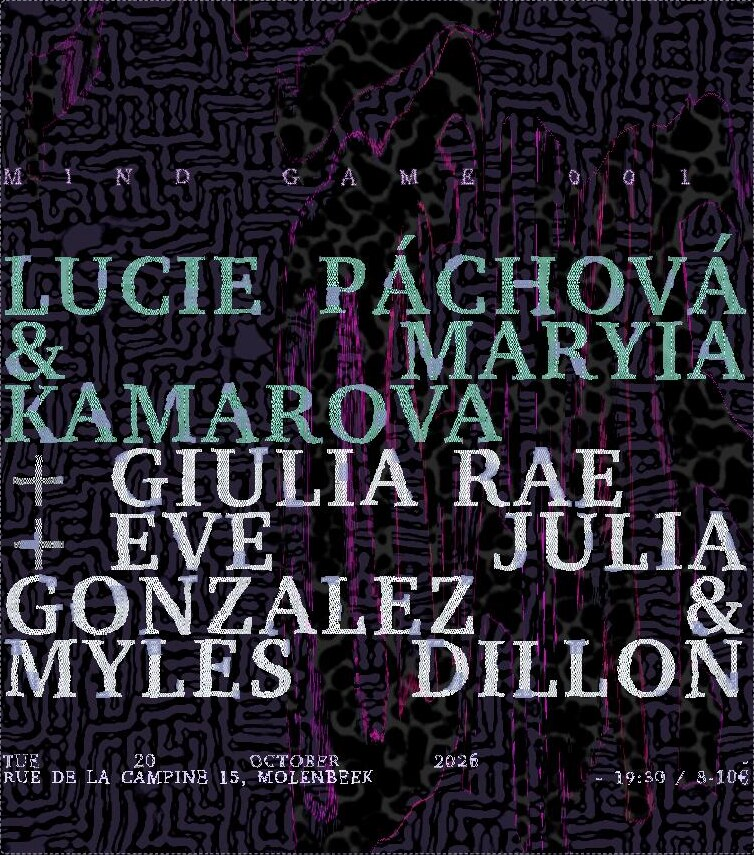
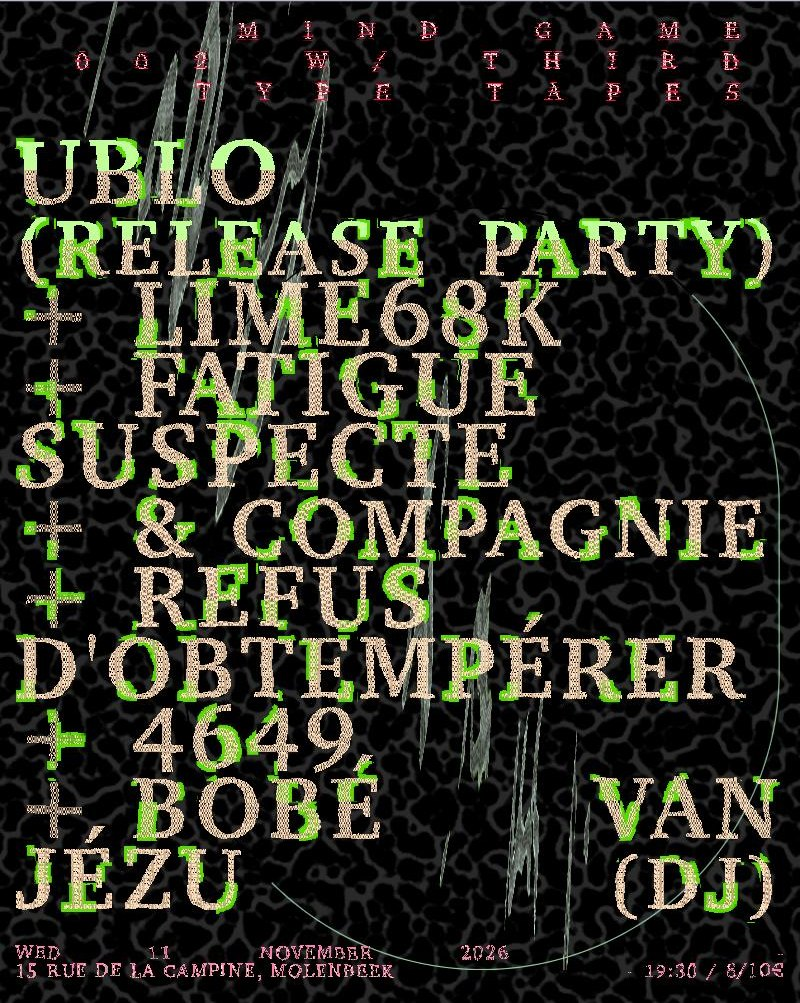
L'aperçu montre l'affiche du 11 novembre

diff --git a/index.html b/index.html
@@ -28,8 +28,8 @@
      il faut alors refaire `images/share.jpg?v=2026-11-11`. Elle remplace le dessin « image
      manquante », qui tenait la place faute de mieux. -->
 <meta property="og:image" content="https://brusssel.github.io/mind-game/images/share.jpg?v=2026-11-11">
-<meta property="og:image:width" content="754">
-<meta property="og:image:height" content="855">
+<meta property="og:image:width" content="800">
+<meta property="og:image:height" content="1003">
 <meta property="og:image:alt" content="l’affiche du prochain concert">
 <!-- Grande image plutôt que vignette : l'affiche EST l'annonce, et une
      vignette de côté n'en laisse rien lire. -->
